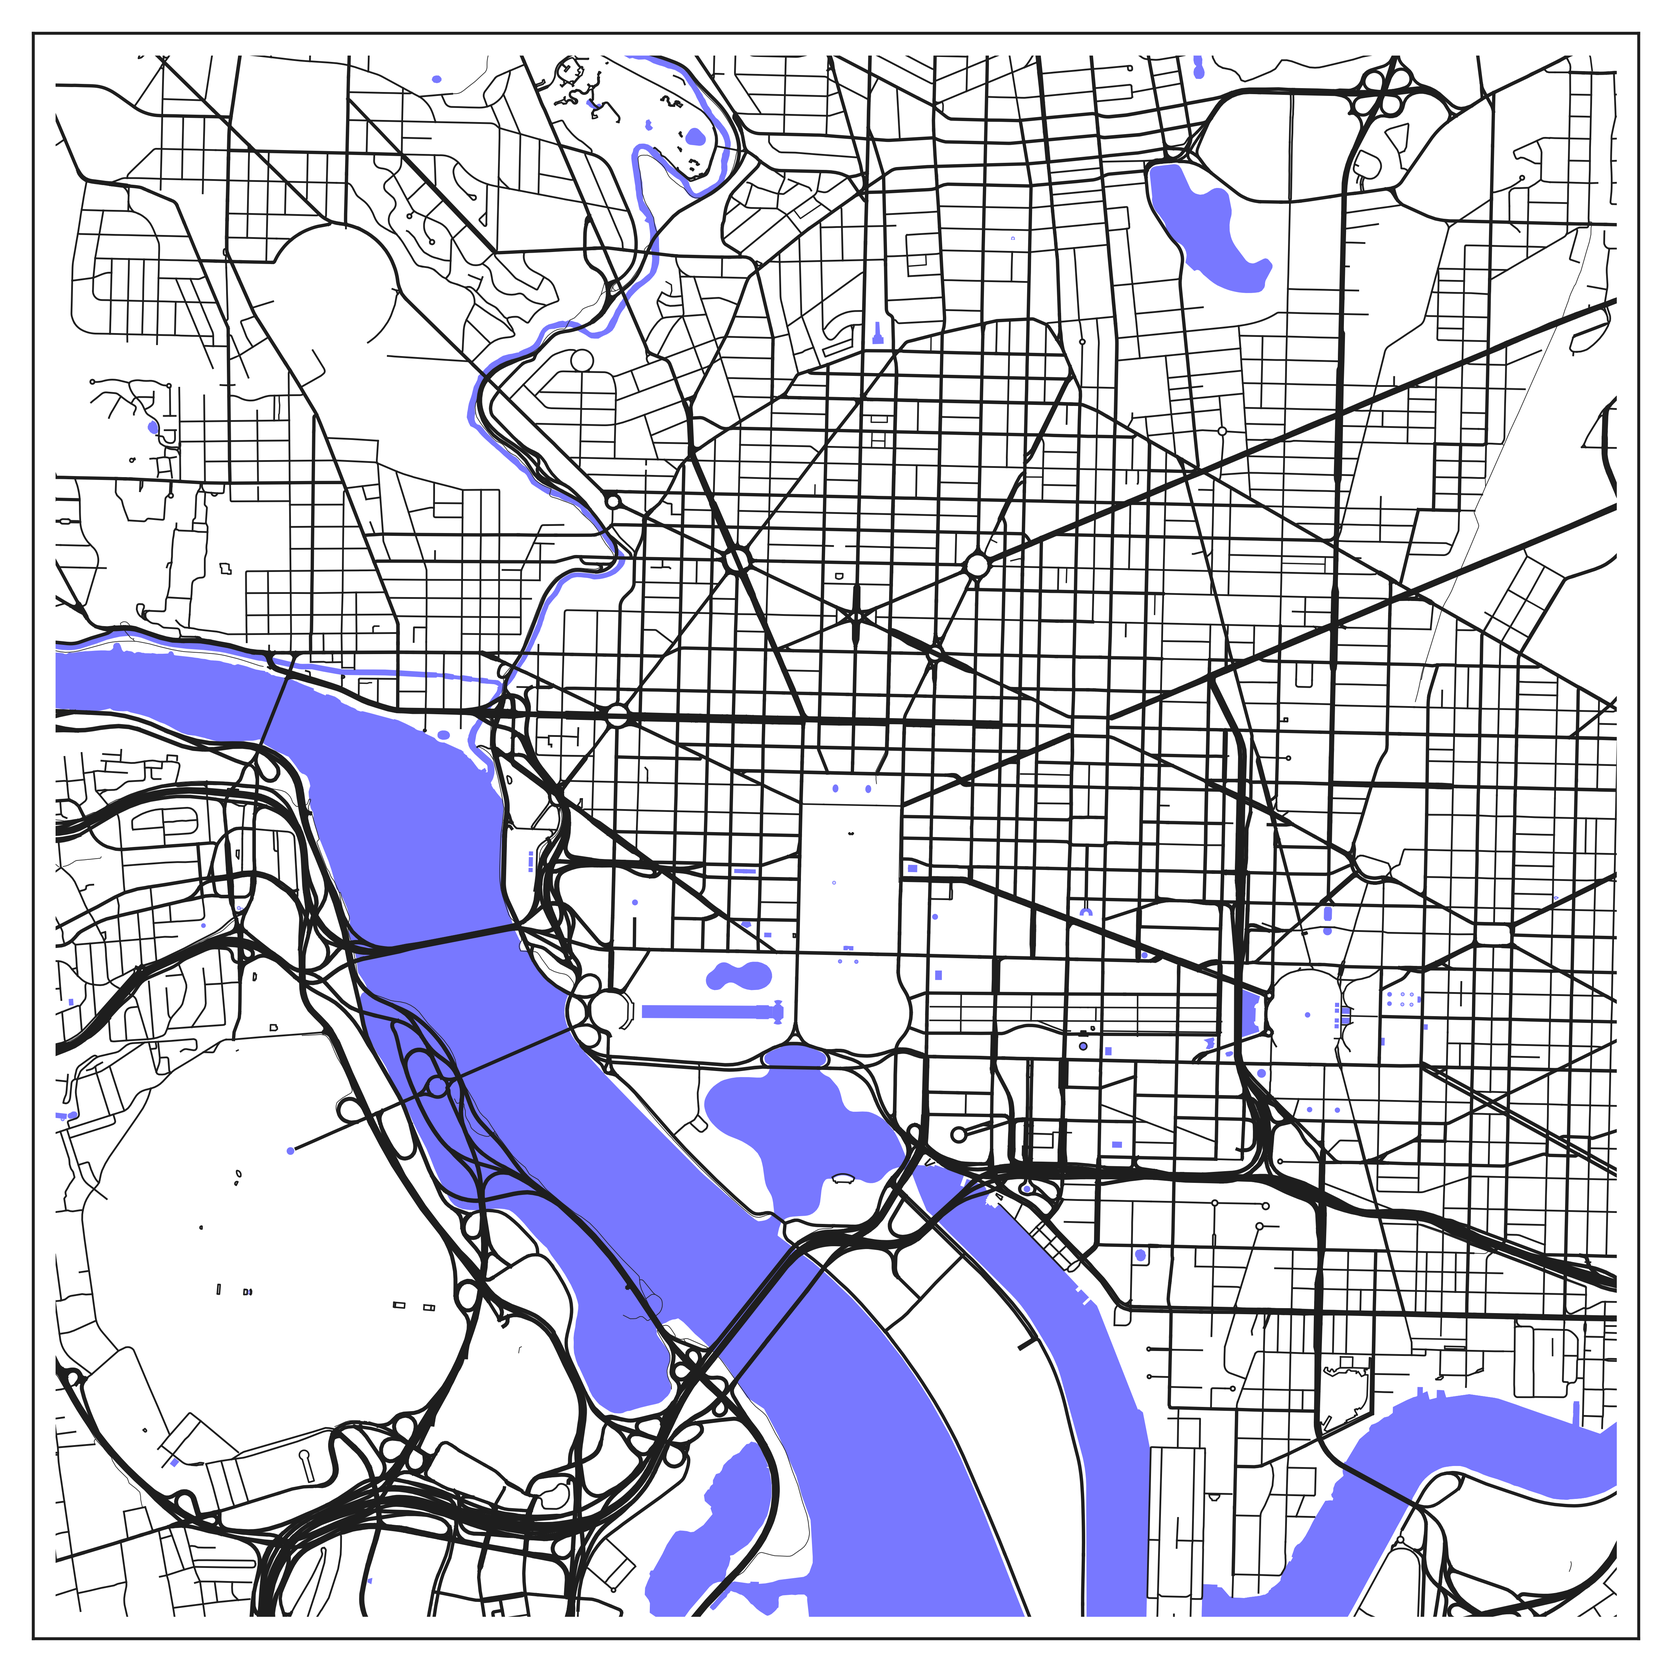
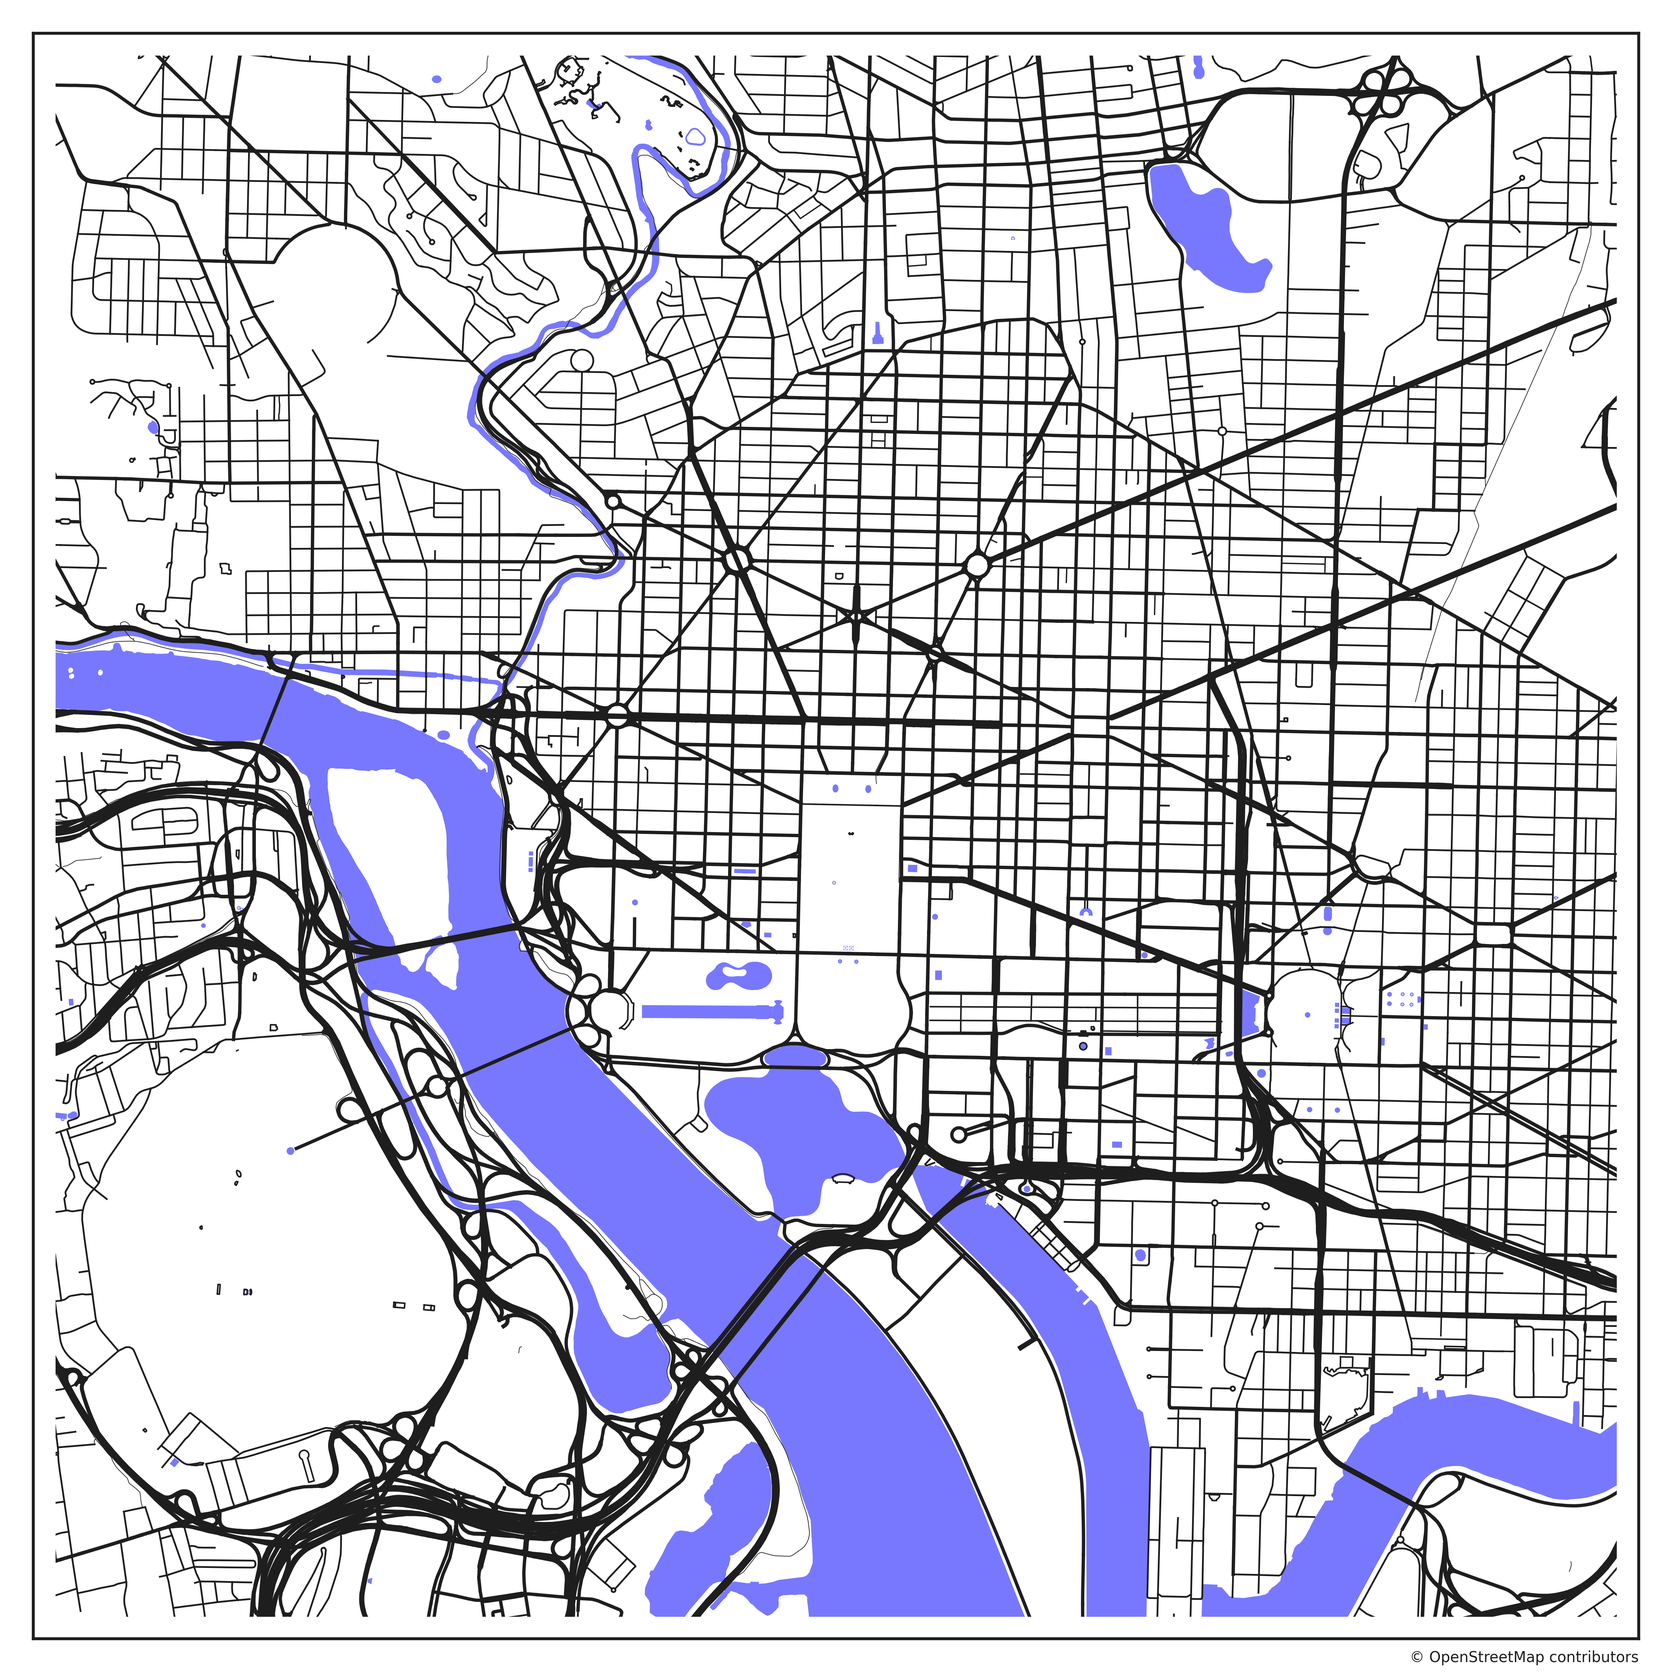
Added OSM Copyright Added Island plotting Added Parameter Example in Readme Code Cleanup

Changed region(s): [[0.1867, 0.4356, 0.4045, 0.8091]]

diff --git a/cityPlot.py b/cityPlot.py
@@ -3,6 +3,7 @@ import utm
 import matplotlib.pyplot as plt
 from geopy.geocoders import Nominatim
 import overpy
+import random
 
 
 def rgb(r, g, b):
@@ -22,16 +23,21 @@ def generate_plot_skeleton():
 
 def get_bounding_box(address):
     print('\tGet Bounding Box for "%s"...' % address, end='',  flush=True)
+
+    # get the wgs84 and utm coordinates of the center address
     geo_locator = Nominatim(user_agent="City Location Maps")
     wgs84_center = geo_locator.geocode(address)
     center = (wgs84_center.latitude, wgs84_center.longitude)
     utm_center = utm.from_latlon(wgs84_center.latitude, wgs84_center.longitude)
+
+    # define the top-right and bottom-left points of the visible quare in utm
     utm_top_right = (utm_center[0] + 1000*km_distance/2, utm_center[1] + 1000*km_distance/2, utm_center[2], utm_center[3])
     utm_bottom_left = (utm_center[0] - 1000*km_distance/2, utm_center[1] - 1000*km_distance/2, utm_center[2], utm_center[3])
+    # add 1km buffer for the overpass query
     wgs84_top_right = utm.to_latlon(utm_top_right[0] + 1000, utm_top_right[1] + 1000, utm_top_right[2], utm_top_right[3])
     wgs84_bottom_left = utm.to_latlon(utm_bottom_left[0] - 1000, utm_bottom_left[1] - 1000, utm_bottom_left[2], utm_bottom_left[3])
 
-    # bbox = [south,west,north,east]
+    # put together the bounding boxes = [south,west,north,east]
     bbox_wgs84 = [wgs84_bottom_left[0], wgs84_bottom_left[1], wgs84_top_right[0], wgs84_top_right[1]]
     bbox_utm = [utm_bottom_left[0], utm_bottom_left[1], utm_top_right[0], utm_top_right[1]]
     print('\tdone')
@@ -41,8 +47,9 @@ def get_bounding_box(address):
 def get_roads_from_overpass(bbox):
     print('\tLoad Roads from Overpass...', end='',  flush=True)
 
-    # For OSM relations see: https://gist.github.com/4gus71n/26589a508d8deca333bb05928fd4beb0
+    # To get only roads within a city relation see: https://gist.github.com/4gus71n/26589a508d8deca333bb05928fd4beb0
     # https://overpass-turbo.eu/#
+
     api = overpy.Overpass()
     data = api.query("""
 [timeout:900][out:json][bbox: {}, {}, {}, {}];
@@ -71,6 +78,7 @@ def get_roads_from_overpass(bbox):
 out;""".format(*bbox))
     print('\t data received...', end='', flush=True)
 
+    # create road dict with east and north coordinates in utm and the highway type for each way received from overpass
     roads = {}
     for way in data.ways:
         norths = []
@@ -82,6 +90,81 @@ out;""".format(*bbox))
         roads[int(way.id)] = {'e': easts, 'n': norths, 'type': way.tags['highway']}
     print('\tdone')
     return roads
+
+
+def get_borders_from_relation(data, relation_members):
+    outer_borders = []
+    inner_borders = []
+    for member in relation_members:
+        first = None
+        last = None
+        for way in data.ways:
+            if way.id == member.ref:
+                first = way.nodes[0].id
+                last = way.nodes[-1].id
+                break
+        if member.role == 'outer':
+            outer_borders.append({'id': member.ref, 'first': first, 'last': last, 'used': False})
+        elif member.role == 'inner':
+            inner_borders.append({'id': member.ref, 'first': first, 'last': last, 'used': False})
+    return inner_borders, outer_borders
+
+
+def separate_and_sort_borders(borders):
+    sorted_loops = []
+    borders_sorted = []
+    next_id = 0
+    start_id = 0
+    cnt = len(borders) * 3  # If borders do not fit together it stops after cnt attempts
+    borders_sorted_cnt = 0
+
+    while borders_sorted_cnt < len(borders) and cnt > 0:
+        cnt -= 1
+
+        if len(borders_sorted) == 0:  # if current loop is empty, start with first unused element
+            for el in borders:
+                if not el['used']:
+                    start_id = el['first']
+                    el['used'] = True
+                    borders_sorted.append((el['id'], 1))
+                    next_id = el['last']
+                    break
+        else:
+            for el in borders:
+                if el['used']:
+                    continue
+                else:
+                    if el['first'] == next_id:
+                        borders_sorted.append((el['id'], 1))
+                        next_id = el['last']
+                        el['used'] = True
+                    elif el['last'] == next_id:
+                        borders_sorted.append((el['id'], -1))
+                        next_id = el['first']
+                        el['used'] = True
+
+        if start_id == next_id:  # Check if loop is closed
+            sorted_loops.append(borders_sorted)
+            borders_sorted_cnt += len(borders_sorted)
+            borders_sorted = []
+
+    return sorted_loops
+
+
+def concatenate_borders_as_utm(data, relation, borders, added):
+    norths = []
+    easts = []
+    for el in borders:
+        for member in relation.members:
+            if member.ref == el[0]:
+                for way in data.ways:
+                    if way.id == member.ref:
+                        added.add(member.ref)
+                        for node in way.nodes[::el[1]]:
+                            utm_cord = utm.from_latlon(float(node.lat), float(node.lon))
+                            easts.append(utm_cord[0])
+                            norths.append(utm_cord[1])
+    return easts, norths
 
 
 def get_water_from_overpass(bbox):
@@ -120,65 +203,22 @@ def get_water_from_overpass(bbox):
 out;""".format(*bbox))
     print('\t data received...', end='', flush=True)
     water = {}
+    islands = {}
     added = set()
 
     for relation in data.relations:
-        norths = []
-        easts = []
-        order = []
-        for member in relation.members:
+        inner_borders, outer_borders = get_borders_from_relation(data, relation.members)
+        inner_border_sorted_loops = separate_and_sort_borders(inner_borders)
+        outer_borders_sorted_loops = separate_and_sort_borders(outer_borders)
 
+        for outer_loop in outer_borders_sorted_loops:
+            easts, norths = concatenate_borders_as_utm(data, relation, outer_loop, added)
+            water[int(relation.id) + len(water) + random.randint(0, 10000)] = {'e': easts, 'n': norths, 'w': 0}
 
-            if member.role == 'outer':
-                first = None
-                last = None
-                for way in data.ways:
-                    if way.id == member.ref:
-                        first = way.nodes[0].id
-                        last = way.nodes[-1].id
-                order.append({'id': member.ref, 'first': first, 'last': last, 'used': False})
-
-        order_new = []
-        next_id = 0
-        cnt = len(order) * 3
-        # This loop tries to sort the ways of an relation so that they are connected in the right order
-        # However, if they have no common start/end Points the sorting fails or is incomplete.
-        # This rare cases this might result in wrong water plotting.
-        while len(order_new) < len(order) and cnt > 0:
-            cnt -= 1
-            if len(order_new) == 0:
-                order[0]['used'] = True
-                order_new.append((order[0]['id'], 1))
-                next_id = order[0]['last']
-            else:
-                for el in order:
-                    if el['used']:
-                        continue
-                    else:
-                        if el['first'] == next_id:
-                            order_new.append((el['id'], 1))
-                            next_id = el['last']
-                            el['used'] = True
-                        elif el['last'] == next_id:
-                            order_new.append((el['id'], -1))
-                            next_id = el['first']
-                            el['used'] = True
-                        elif el['last'] == el['first']:
-                            order_new.append((el['id'], 1))
-                            next_id = el['last']
-                            el['used'] = True
-
-        for el in order_new:
-            for member in relation.members:
-                if member.ref == el[0]:
-                    for way in data.ways:
-                        if way.id == member.ref:
-                            added.add(member.ref)
-                            for node in way.nodes[::el[1]]:
-                                utm_cord = utm.from_latlon(float(node.lat), float(node.lon))
-                                easts.append(utm_cord[0])
-                                norths.append(utm_cord[1])
-        water[int(relation.id) + len(water)] = {'e': easts, 'n': norths, 'w': 0}
+        for inner_loop in inner_border_sorted_loops:
+            if inner_loop:
+                easts, norths = concatenate_borders_as_utm(data, relation, inner_loop, added)
+                islands[int(relation.id) + len(islands) + random.randint(0, 10000)] = {'e': easts, 'n': norths, 'w': 0}
 
     for way in data.ways:
         norths = []
@@ -195,8 +235,9 @@ out;""".format(*bbox))
             easts.append(utm_cord[0])
             norths.append(utm_cord[1])
         water[int(way.id)] = {'e': easts, 'n': norths, 'w': width}
+
     print('\tdone', flush=True)
-    return water
+    return water, islands
 
 
 def plot_map_data():
@@ -204,12 +245,15 @@ def plot_map_data():
 
     for k, v in roads.items():
         if v['type'] in road_width.keys():
-            ax.plot(v['e'], v['n'], color=color_roads, linewidth=road_width[v['type']])
+            ax.plot(v['e'], v['n'], color=road_color, linewidth=road_width[v['type']])
     for k, v in water.items():
         if v['w'] == 0:
-            ax.fill(v['e'], v['n'], color=color_water)
+            ax.fill(v['e'], v['n'], color=water_color)
         else:
-            ax.plot(v['e'], v['n'], color=color_water, linewidth=v['w'] * water_width_factor)
+            ax.plot(v['e'], v['n'], color=water_color, linewidth=v['w'] * water_width_factor)
+    for k, v in islands.items():
+        ax.fill(v['e'], v['n'], color=plot_bg_color)
+
 
     print('\tdone', flush=True)
 
@@ -217,7 +261,7 @@ def plot_map_data():
 def style_plot():
     print('\tStyling...', end='', flush=True)
     if print_title:
-        ax.set_title(location['name'], fontsize=title_size, fontname=title_font, pad=title_pad, color=color_title)
+        ax.set_title(location['name'], fontsize=title_size, fontname=title_font, pad=title_pad, color=title_color)
 
     ax.axes.get_xaxis().set_ticks([])
     ax.axes.get_yaxis().set_ticks([])
@@ -233,6 +277,9 @@ def style_plot():
             [bbox_utm[1], bbox_utm[3], bbox_utm[3], bbox_utm[1], bbox_utm[1]],
             linewidth=inner_gap_size, color=inner_gap_color)
     ax.set(xlim=(bbox_utm[0], bbox_utm[2]), ylim=(bbox_utm[1], bbox_utm[3]))
+
+    ax.set_xlabel(u'© OpenStreetMap contributors', fontsize=5, labelpad=4, loc='right', color=color_fg)
+
     print('\tdone', flush=True)
 
 
@@ -240,40 +287,42 @@ def save_plot():
     print('\tSaving...', end='', flush=True)
     fig.set_size_inches(image_width_cm / 2.54, image_height_cm / 2.54)
     plt.savefig('{}.png'.format(location['name']), dpi=600)
-    #plt.show()
     print('\t{}.png saved!\n'.format(location['name']), flush=True)
 
 
 if __name__ == '__main__':
 
-    # Define Input
-    locations = [{'name': 'Trump', 'address': 'Oval Office, Washington'},
-                 {'name': 'Home', 'address': 'Onslow Sq 21, London, England'},]
+    ####################################################################################################################
+    #                                          Define Location Input                                                   #
+    ####################################################################################################################
+    km_distance = 8  # default 8
+    locations = [{'name': 'Trump', 'address': 'Oval Office, Washington DC'},
+                 {'name': 'Home', 'address': 'Onslow Sq 21, London, England'}]
 
-    km_distance = 8
+    ####################################################################################################################
+    #                                          Define Style Parameter                                                  #
+    ####################################################################################################################
+    image_width_cm = 20             # default 20
+    image_height_cm = 20            # default 20
 
-    # Define Style
-    image_width_cm = 20
-    image_height_cm = 20
+    color_fg = rgb(30, 30, 30)      # default rgb(30, 30, 30)
+    color_bg = rgb(255, 255, 255)   # default rgb(255, 255, 255)
 
-    color_fg = rgb(30, 30, 30)
-    color_bg = rgb(255, 255, 255)
+    outer_gap_size = 0.02           # default 0.02 (size in percentage of plot)
+    outer_gap_color = color_bg      # default color_bg
 
-    outer_gap_size = 0.02  # percentage
-    outer_gap_color = color_bg
+    frame_size = 1                  # default 1 (size as linewidth)
+    frame_color = color_fg          # default color_fg
 
-    frame_size = 1  # line width
-    frame_color = color_fg
+    inner_gap_size = 15             # default 15 (size as linewidth)
+    inner_gap_color = color_bg      # default color_bg
 
-    inner_gap_size = 15  # line width
-    inner_gap_color = color_bg
+    plot_bg_color = color_bg        # default color_bg
+    water_color = rgb(120, 120, 255)  # default rgb(120, 120, 255)
+    road_color = color_fg           # default color_fg
 
-    plot_bg_color = color_bg
-    color_water = rgb(120, 120, 255)
-    color_roads = color_fg
-
-    water_width_factor = 0.1
-    road_width_max = 1.5  # line width
+    water_width_factor = 0.1        # default 0.1 (as percentage of OSM width)
+    road_width_max = 1.5            # default 1.5 (size as line width)
     road_width = {'motorway': road_width_max, 'motorway_link': road_width_max * 0.9,
                   'trunk': road_width_max * 0.9, 'trunk_link': road_width_max * 0.8,
                   'primary': road_width_max * 0.8, 'primary_link': road_width_max * 0.7,
@@ -285,12 +334,16 @@ if __name__ == '__main__':
                   'living_street': road_width_max * 0.3,
                   'cycleway': road_width_max * 0.15}
 
-    print_title = False
-    color_title = color_fg
-    title_space = 0.1
-    title_size = 40
-    title_font = 'Segoe UI'
-    title_pad = 12
+    print_title = False             # default False
+    title_color = color_fg          # default color_fg
+    title_space = 0.08              # default 0.08 (as percentage of height)
+    title_size = 40                 # default 40 (as fontsize)
+    title_font = 'Segoe UI'         # default 'Segoe UI'
+    title_pad = 12                  # default 12
+
+    ####################################################################################################################
+    #                                                End of Input                                                      #
+    ####################################################################################################################
 
     for i, location in enumerate(locations):
         print('Processing {} of {}: {}'.format(i+1, len(locations), location['name']),  flush=True)
@@ -299,7 +352,7 @@ if __name__ == '__main__':
 
         bbox_wgs84, bbox_utm = get_bounding_box(location['address'])
         roads = get_roads_from_overpass(bbox_wgs84)
-        water = get_water_from_overpass(bbox_wgs84)
+        water, islands = get_water_from_overpass(bbox_wgs84)
 
         plot_map_data()
         style_plot()

diff --git a/README.md b/README.md
@@ -1,5 +1,12 @@
 # City Plots from OSM 
-This tool uses the overpass turbo api to extract the roads and rivers around a specified location and saves it as png. 
+This tool creates beautiful city street plots for any given address.
+
+* [`geopy`](https://geopy.readthedocs.io/): Converts the address to a location
+* [`overpy`](https://pypi.org/project/overpy/): Uses the [Overpass-Turbo](https://overpass-turbo.eu/) API to load the city data from [OpenStreetMap](https://www.openstreetmap.org) ([OSM-License](https://www.openstreetmap.org/copyright/en))
+* [`utm`](https://pypi.org/project/utm/): Converts the wgs84 coordinates to utm coordinates
+* [`matplotlib`](https://matplotlib.org/): Plots the utm coordinates
+
+
 
 ## How to use
 Edit the location dict and insert the locations you want to have in the center:
@@ -10,16 +17,22 @@ Set the size of the square in km:
 
 ` km_distance = 8`
              
-Optional: Use the further style parameter in the `main` function to change color and line width. 
+Optional: Use the further style parameter in the `main` function to change e.g. color and line width. 
 
 
 ## Example
 ![Example Plot](ExampleOutputs/Trump.png)
-_Example 1: The City Plot of Washington with the Oval Office in its center_
+_Img 1: The City Plot of Washington with the Oval Office in its center_
 
 
 ![Example Plot](ExampleOutputs/Home.png)
-_Example 2: Random address in London_
+_Img 2: Random address in London_
+
+## Parameter Description
+You can change several style parameters regarding color, size, thickness and title. The following image should help you to find the parameters you want to tune. 
+
+![Example Plot](ExampleOutputs/ParameterExample.png)
+_Img 3: Description of the Style Parameter_
 
 ## Requirements
 The code was tested with Python 3.6, newer versions should also work. The code was tested for compliance with Windows machines. Use the provided [`requirements.txt`](requirements.txt) in the root directory of this repository, in order to install all required modules.
